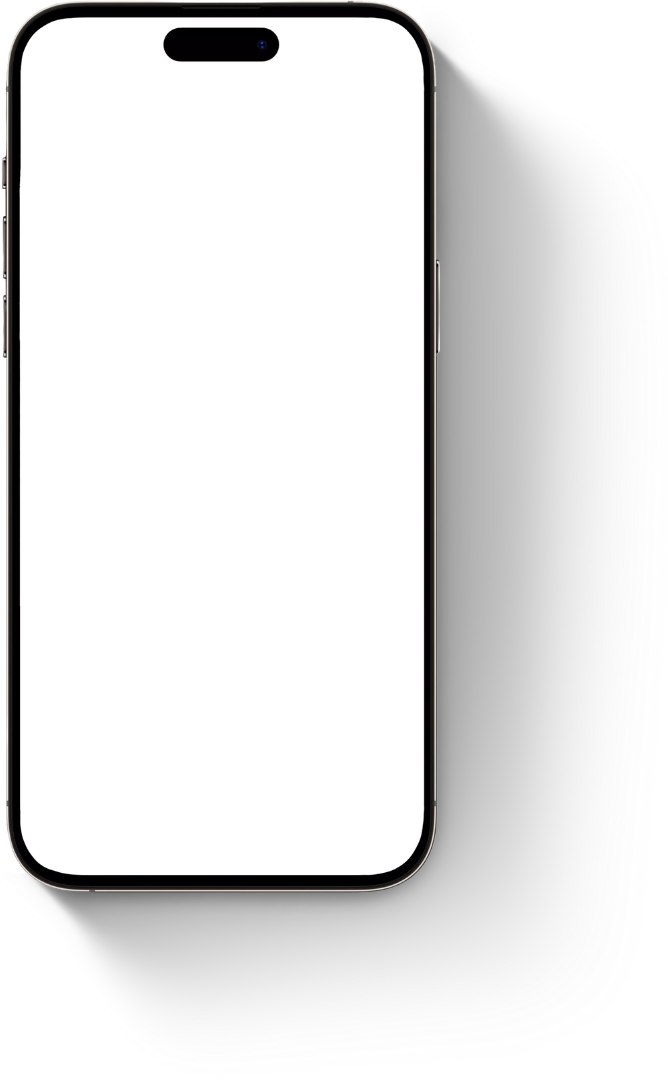
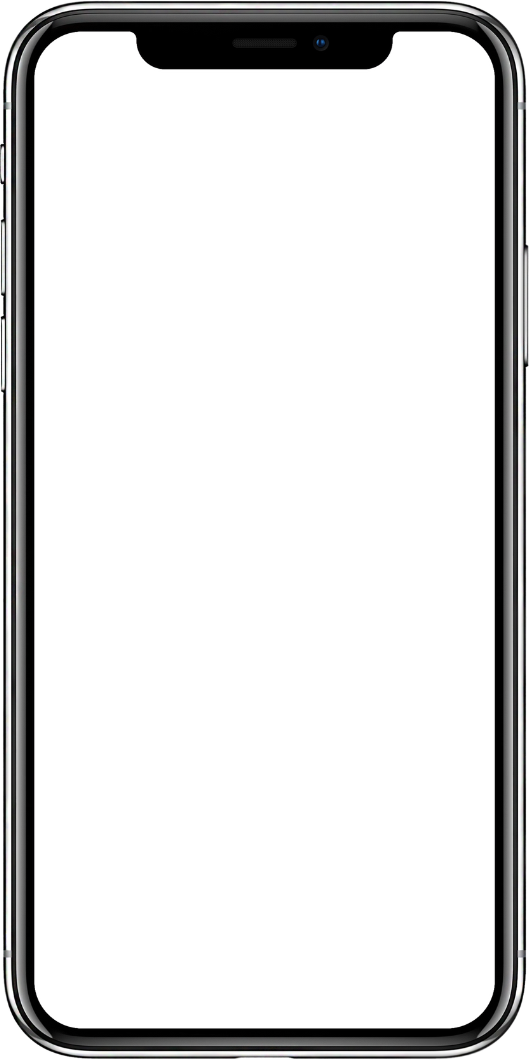
앱 인트로에서 탭 클릭 시 이미지가 변환되도록 했습니다

diff --git a/src/containers/AppIntro.tsx b/src/containers/AppIntro.tsx
@@ -1,0 +1,99 @@
+import React, { useState, useRef } from 'react';
+import Slider from 'react-slick';
+import './AppIntro.css';
+import main1 from '../assets/images/main.png';
+import main2 from '../assets/images/reservation.png';
+import main3 from '../assets/images/community.png';
+import main4 from '../assets/images/promain.png';
+import Tabs from '../components/Tabs'; // Tabs 컴포넌트 임포트
+
+const sliderSettings = {
+  dots: true,
+  infinite: true,
+  speed: 500,
+  slidesToShow: 1,
+  slidesToScroll: 1,
+  autoplay: true, // 자동 슬라이드를 활성화
+  autoplaySpeed: 3000,
+};
+
+interface TabContent {
+  title: string;
+  description: string;
+  highlight: string;
+}
+
+const tabContent: { [key: string]: TabContent } = {
+  '홈': {
+    title: '직접 문의하는 것보다 빠르게!',
+    description: '몇 번의 터치만으로 불편함없이 간편하게!',
+    highlight: '캐치비만의 간편예약 기능으로 시간을 절약하세요'
+  },
+  '예약': {
+    title: '간편한 예약 시스템',
+    description: '빠르고 쉽게 예약하세요!',
+    highlight: '캐치비에서 예약 관리까지 한 번에!'
+  },
+  '커뮤니티': {
+    title: '함께하는 야구',
+    description: '다른 사용자들과 소통해보세요!',
+    highlight: '커뮤니티 기능으로 다양한 정보를 교환하세요'
+  },
+  '프로모드': {
+    title: '프로 모드 기능',
+    description: '더 전문적인 기능을 활용하세요!',
+    highlight: '프로모드로 더 많은 혜택을 누리세요'
+  },
+};
+
+const tabImageIndex: { [key: string]: number } = {
+  '홈': 0,
+  '예약': 1,
+  '커뮤니티': 2,
+  '프로모드': 3,
+};
+
+const AppIntro: React.FC = () => {
+  const [selectedTab, setSelectedTab] = useState('홈');
+  const tabNames = Object.keys(tabContent); // AppIntro 페이지에서 사용할 탭 이름
+  const sliderRef = useRef<any>(null); // 슬라이더 참조를 any 타입으로 설정
+
+  const handleTabClick = (tab: string) => {
+    setSelectedTab(tab);
+    if (sliderRef.current) {
+      sliderRef.current.slickGoTo(tabImageIndex[tab]);
+    }
+  };
+
+  return (
+    <div className="app-intro-container">
+      <div className="image-container">
+        <div className="phone-frame">
+          <Slider ref={sliderRef} {...sliderSettings} className="appintro-slider-container">
+            <div>
+              <img src={main1} alt="Screen 1" className="screen-image" />
+            </div>
+            <div>
+              <img src={main2} alt="Screen 2" className="screen-image" />
+            </div>
+            <div>
+              <img src={main3} alt="Screen 3" className="screen-image" />
+            </div>
+            <div>
+              <img src={main4} alt="Screen 4" className="screen-image" />
+            </div>
+          </Slider>
+          <div className="iphone-overlay"></div> {/* iPhone 테두리 오버레이 */}
+        </div>
+      </div>
+      <div className="appintro-text-container">
+        <Tabs tabNames={tabNames} onTabClick={handleTabClick} selectedTab={selectedTab} /> {/* Tabs 컴포넌트에 props 전달 */}
+        <h1>{tabContent[selectedTab].title}</h1>
+        <p>{tabContent[selectedTab].description}</p>
+        <h2>{tabContent[selectedTab].highlight}</h2>
+      </div>
+    </div>
+  );
+};
+
+export default AppIntro;

diff --git a/src/containers/AppIntro.css b/src/containers/AppIntro.css
@@ -1,0 +1,84 @@
+.app-intro-container {
+  height: 100vh;
+  width: 100%;
+  display: flex;
+  justify-content: space-between;
+  align-items: center;
+  color: white;
+  padding: 20px;
+  box-sizing: border-box;
+}
+
+.image-container {
+  flex: 0.7;
+  display: flex;
+  justify-content: flex-start;
+  align-items: center;
+  padding: 20px;
+  position: relative;
+}
+
+.phone-frame {
+  width: 100%;
+  max-width: 300px;
+  aspect-ratio: 9 / 19.5;
+  position: relative;
+}
+
+.appintro-slider-container {
+  position: absolute;
+  top: 6%;  /* 스크린 위치 조정 */
+  left: 6%;  /* 스크린 위치 조정 */
+  width: 88%; /* 너비 조정 */
+  height: 88%; /* 높이 조정 */
+  border-radius: 40px;
+  overflow: hidden; /* 테두리를 넘지 않도록 숨김 */
+}
+
+.screen-image {
+  width: 100%;
+  height: 100%;
+  object-fit: contain; /* 이미지가 잘리지 않도록 조정 */
+}
+
+.iphone-overlay {
+  position: absolute;
+  top: 0;
+  left: 0;
+  width: 100%;
+  height: 100%;
+  background: url('../assets/images/iphone.png') no-repeat center center;
+  background-size: contain;
+  pointer-events: none; /* 사용자 상호작용 차단 */
+}
+
+.appintro-text-container {
+  flex: 1.3;
+  padding: 20px 40px;
+  text-align: left;
+  display: flex;
+  flex-direction: column;
+  justify-content: start;
+  height: 650px;
+}
+
+.appintro-text-container h1 {
+  font-size: 40px;
+  margin-bottom: 20px;
+  font-family: 'Do Hyeon', sans-serif; /* Do Hyeon 폰트 적용 */
+}
+
+.appintro-text-container h2 {
+  font-size: 30px;
+  margin-top: 10px;
+}
+
+.appintro-text-container p {
+  font-size: 30px;
+  margin-top: 10px;
+}
+
+.appintro-text-container p, .appintro-text-container h2 {
+  font-family: 'Noto Sans KR', sans-serif; /* Noto Sans KR 폰트 적용 */
+  line-height: 1.6;
+}

diff --git a/src/containers/Header.css b/src/containers/Header.css
@@ -15,11 +15,11 @@
 
 .header-gradient {
   position: absolute;
-  bottom: 0;
+  bottom: -2px;
   left: 0;
   width: 100%;
   height: 30%; /* 흐림 효과의 높이 조절 */
-  background: linear-gradient(to top, rgba(0, 0, 0, 0.5), rgba(0, 0, 0, 0));
+  background: linear-gradient(to top, #000C06, rgba(0, 12, 6, 0.5), rgba(0, 0, 0, 0));
   z-index: 1; /* 오버레이를 이미지 위에 표시 */
 }
 
@@ -37,7 +37,7 @@
   text-align: center; /* 텍스트 중앙 정렬 */
   padding: 20px;
   box-sizing: border-box;
-  z-index: 2; /* 오버레이를 상단에 표시 */
+  z-index: 0; /* 오버레이를 상단에 표시 */
 }
 
 .header-text-container {
@@ -55,20 +55,21 @@
 .header-text-container h1 {
   font-family: 'Do Hyeon', sans-serif;
   font-size: 80px;
-  margin-bottom: 10px; /* 원하는 간격 설정 */
+  margin-bottom: 0px; /* 원하는 간격 설정 */
 }
 
 .header-text-container p {
   font-family: 'Noto Sans KR', sans-serif;
   font-size: 50px;
   font-weight: bold;
-  margin-bottom: 10px; /* 원하는 간격 설정 */
+  margin-bottom: 50px; /* 원하는 간격 설정 */
 }
 
 .catchb-Logo {
   width: 200px; /* 적절한 크기로 조정 */
   height: auto;
   margin-bottom: 10px; /* 원하는 간격 설정 */
+  
 }
 
 .download-button {

diff --git a/src/App.tsx b/src/App.tsx
@@ -1,13 +1,13 @@
 import React from 'react';
 import { Element } from 'react-scroll';
-import Header from './components/Header'; // Header 컴포넌트 추가
-import AppIntro from './components/AppIntro';
-import Events from './components/Events';
-import Notices from './components/Notices';
-import PreOrder from './components/PreOrder';
-import HowToUse from './components/HowToUse';
-import Footer from './components/Footer';
-import NavBar from './components/NavBar'; // NavBar 컴포넌트 추가
+import Header from './containers/Header'; // Header 컴포넌트 추가
+import AppIntro from './containers/AppIntro';
+import Events from './containers/Events';
+import Notices from './containers/Notices';
+import PreOrder from './containers/PreOrder';
+import HowToUse from './containers/HowToUse';
+import Footer from './containers/Footer';
+import NavBar from './containers/NavBar'; // NavBar 컴포넌트 추가
 import './App.css'; // CSS 파일 추가
 
 const App: React.FC = () => {

diff --git a/src/components/Tabs.tsx b/src/components/Tabs.tsx
@@ -1,0 +1,26 @@
+import React from 'react';
+import './Tabs.css';
+
+interface TabsProps {
+  tabNames: string[];
+  onTabClick: (tab: string) => void;
+  selectedTab: string;
+}
+
+const Tabs: React.FC<TabsProps> = ({ tabNames, onTabClick, selectedTab }) => {
+  return (
+    <div className="tabs-container">
+      {tabNames.map((tabName) => (
+        <div
+          key={tabName}
+          className={`tab-item ${selectedTab === tabName ? 'active' : ''}`}
+          onClick={() => onTabClick(tabName)}
+        >
+          {tabName}
+        </div>
+      ))}
+    </div>
+  );
+};
+
+export default Tabs;

diff --git a/src/components/Tabs.css b/src/components/Tabs.css
@@ -1,0 +1,23 @@
+.tabs-container {
+  display: flex;
+  justify-content: space-between;
+  padding: 20px;
+}
+
+.tab-item {
+  padding: 10px 20px;
+  cursor: pointer;
+  font-size: 20px;
+  color: #d9d9d9;
+  border-bottom: 2px solid transparent;
+  transition: border-bottom 0.3s;
+}
+
+.tab-item:hover {
+  border-bottom: 2px solid #7ed957;
+}
+
+.tab-item.active {
+  border-bottom: 2px solid #7ed957;
+  font-weight: bold;
+}

diff --git a/src/containers/NavBar.css b/src/containers/NavBar.css
@@ -13,7 +13,7 @@
 }
 
 .NavBar-catchb {
-  height: 40px; /* 기존 50px에서 60px로 크기 증가 */
+  height: 20px; /* 기존 50px에서 60px로 크기 증가 */
 }
 
 .NavBar-items {

diff --git a/src/App.css b/src/App.css
@@ -1,6 +1,6 @@
 .App {
   text-align: center;
-  background-color: #282c34;
+  background-color: #000c06;
 }
 
 .Section {
